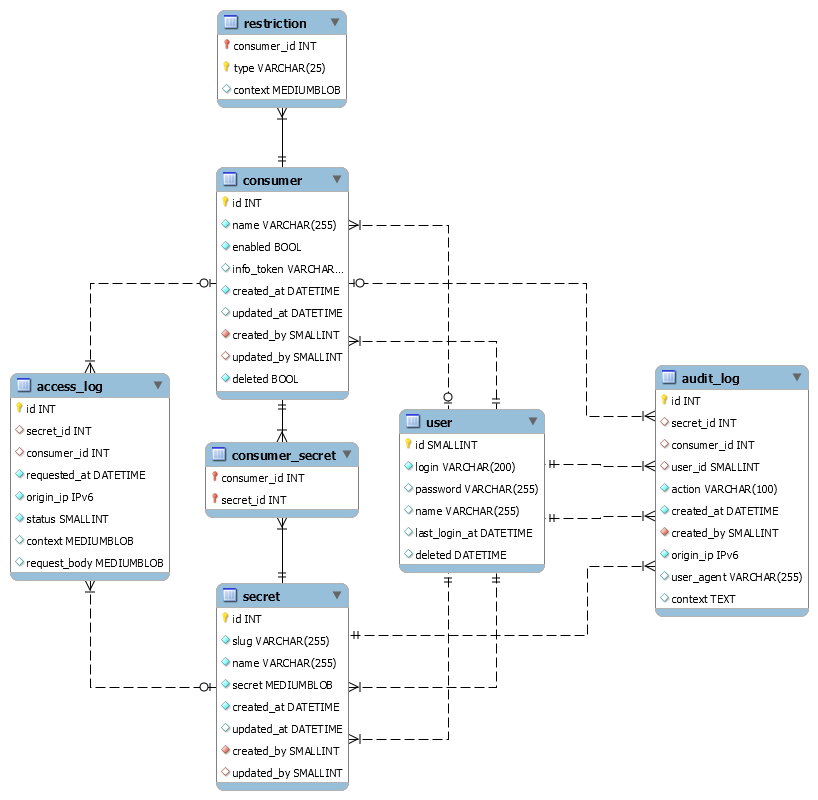
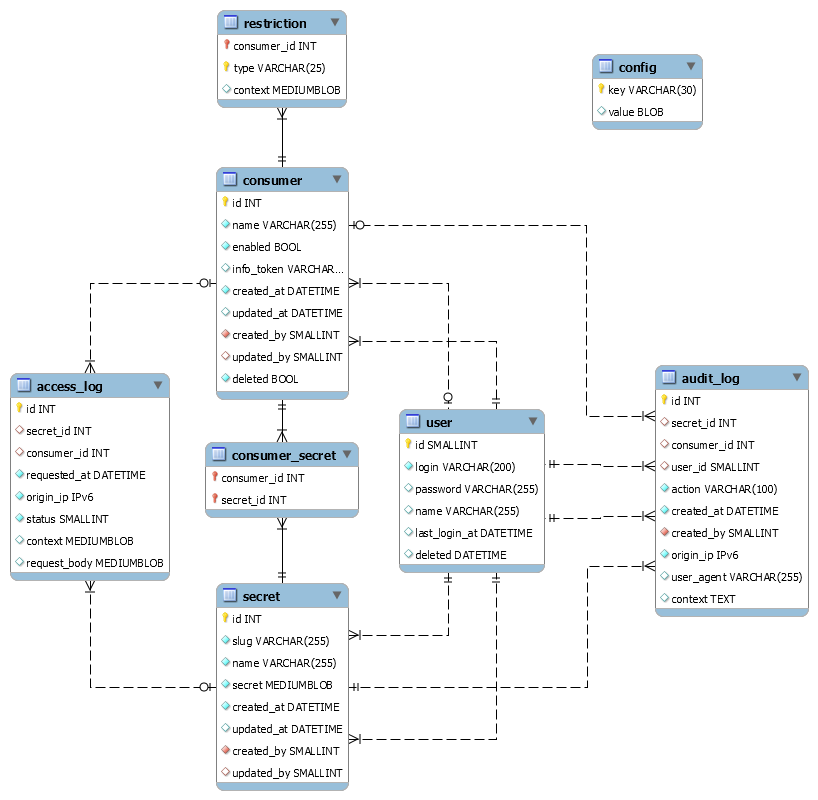
more configuration

diff --git a/templates/consumer.html b/templates/consumer.html
@@ -17,6 +17,7 @@
 
 		<h3>Your assigned Secrets</h3>
 		{{$identifier := .Consumer.GetIdentifier}}
+		{{$base := .BaseUrl}}
 
 		{{if .Secrets}}
 			<p>The following secrets are available to you. Please note that there may be restrictions as to
@@ -34,7 +35,7 @@
 						{{range .Secrets}}
 						<tr>
 							<td><i class="fa fa-key"></i> {{.Name}}</td>
-							<td><a href="/get/{{$identifier}}/{{.Slug}}"><tt>https://this.example.co/get/{{$identifier}}/{{.Slug}}</tt></a></td>
+							<td><a href="/get/{{$identifier}}/{{.Slug}}"><tt>{{$base}}/get/{{$identifier}}/{{.Slug}}</tt></a></td>
 						</tr>
 						{{end}}
 					</tbody>

diff --git a/templates/consumers/urls.html b/templates/consumers/urls.html
@@ -12,6 +12,7 @@
 	</div>
 </div>
 {{$identifier := .Consumer.GetIdentifier}}
+{{$base := .BaseUrl}}
 <div class="row">
 	<div class="col-lg-10 col-lg-offset-1">
 		<h3>{{.Consumer.Name}}</h3>
@@ -28,7 +29,7 @@
 					{{range .Secrets}}
 					<tr>
 						<td><i class="fa fa-key"></i> <a href="/secrets/{{.Id}}">{{.Name}}</a></td>
-						<td><a href="/get/{{$identifier}}/{{.Slug}}"><tt>https://this.example.co/get/{{$identifier}}/{{.Slug}}</tt></a></td>
+						<td><a href="/get/{{$identifier}}/{{.Slug}}"><tt>{{$base}}/get/{{$identifier}}/{{.Slug}}</tt></a></td>
 					</tr>
 					{{end}}
 				</tbody>

diff --git a/config.go b/config.go
@@ -1,6 +1,12 @@
 package main
 
-import "crypto/tls"
+import (
+	"crypto/tls"
+	"io/ioutil"
+	"os"
+)
+
+var masterPassword []byte
 
 type configuration struct {
 	Database struct {
@@ -9,20 +15,47 @@ type configuration struct {
 		DeleteOnBoot bool   `json:"deleteOnBoot"`
 	} `json:"database"`
 
-	SessionKey  string `json:"sessionKey"`
-	CsrfKey     string `json:"csrfKey"`
 	Environment string `json:"environment"`
 
 	Server struct {
 		Listen      string   `json:"listen"`
+		BaseUrl     string   `json:"baseUrl"`
 		Certificate string   `json:"certificate"`
 		PrivateKey  string   `json:"privateKey"`
 		Ciphers     []string `json:"ciphers"`
 	} `json:"server"`
+
+	Session struct {
+		CookieName string `json:"cookieName"`
+		Lifetime   string `json:"lifetime"`
+		Secure     bool   `json:"secure"`
+	} `json:"session"`
 }
 
 func (c *configuration) Password() []byte {
-	return []byte("my very long password")
+	if masterPassword != nil {
+		file := c.Database.PasswordFile
+
+		password, err := ioutil.ReadFile(file)
+		if err != nil {
+			panic("Could not read password file: " + err.Error())
+		}
+
+		if len(password) == 0 {
+			panic("Password file '" + file + "' was empty.")
+		}
+
+		masterPassword = []byte(password)
+
+		if c.Database.DeleteOnBoot {
+			err := os.Remove(file)
+			if err != nil {
+				panic("Could not delete password file: " + err.Error())
+			}
+		}
+	}
+
+	return masterPassword
 }
 
 func (c *configuration) CipherSuites() []uint16 {

diff --git a/main.go b/main.go
@@ -97,14 +97,18 @@ func main() {
 
 	// setup session and CSRF support
 
-	duration, _ := time.ParseDuration("30m")
+	duration, err := time.ParseDuration(config.Session.Lifetime)
+	if err != nil {
+		log.Fatal("Invalid session lifetime configured: " + err.Error())
+	}
 
 	sessions = NewSessionMiddleware(cookieOptions{
-		Name:     "sessieuyn",
+		Name:     config.Session.CookieName,
 		MaxAge:   duration,
 		HttpOnly: true,
-		Secure:   true,
+		Secure:   config.Session.Secure,
 	})
+
 	sessions.Setup(m)
 
 	// re-compile all templates on each hit

diff --git a/templates.go b/templates.go
@@ -24,10 +24,11 @@ type layoutData struct {
 	ActiveMenuItem string
 	CurrentUser    *User
 	CsrfToken      string
+	BaseUrl        string
 }
 
 func NewLayoutData(title string, active string, user *User, csrfToken string) layoutData {
-	return layoutData{title, active, user, csrfToken}
+	return layoutData{title, active, user, csrfToken, config.Server.BaseUrl}
 }
 
 func NewTemplateManager(rootDir string) *TemplateManager {

diff --git a/consumer.go b/consumer.go
@@ -565,6 +565,7 @@ func consumersUrlsAction(params martini.Params, user *User, req *http.Request, s
 }
 
 type infoPageStruct struct {
+	BaseUrl  string
 	Consumer *Consumer
 	Secrets  []Secret
 }
@@ -586,6 +587,7 @@ func consumerInfoAction(params martini.Params, db *sqlx.Tx) response {
 	}
 
 	data := infoPageStruct{
+		config.Server.BaseUrl,
 		consumer,
 		consumer.GetSecrets(false),
 	}
